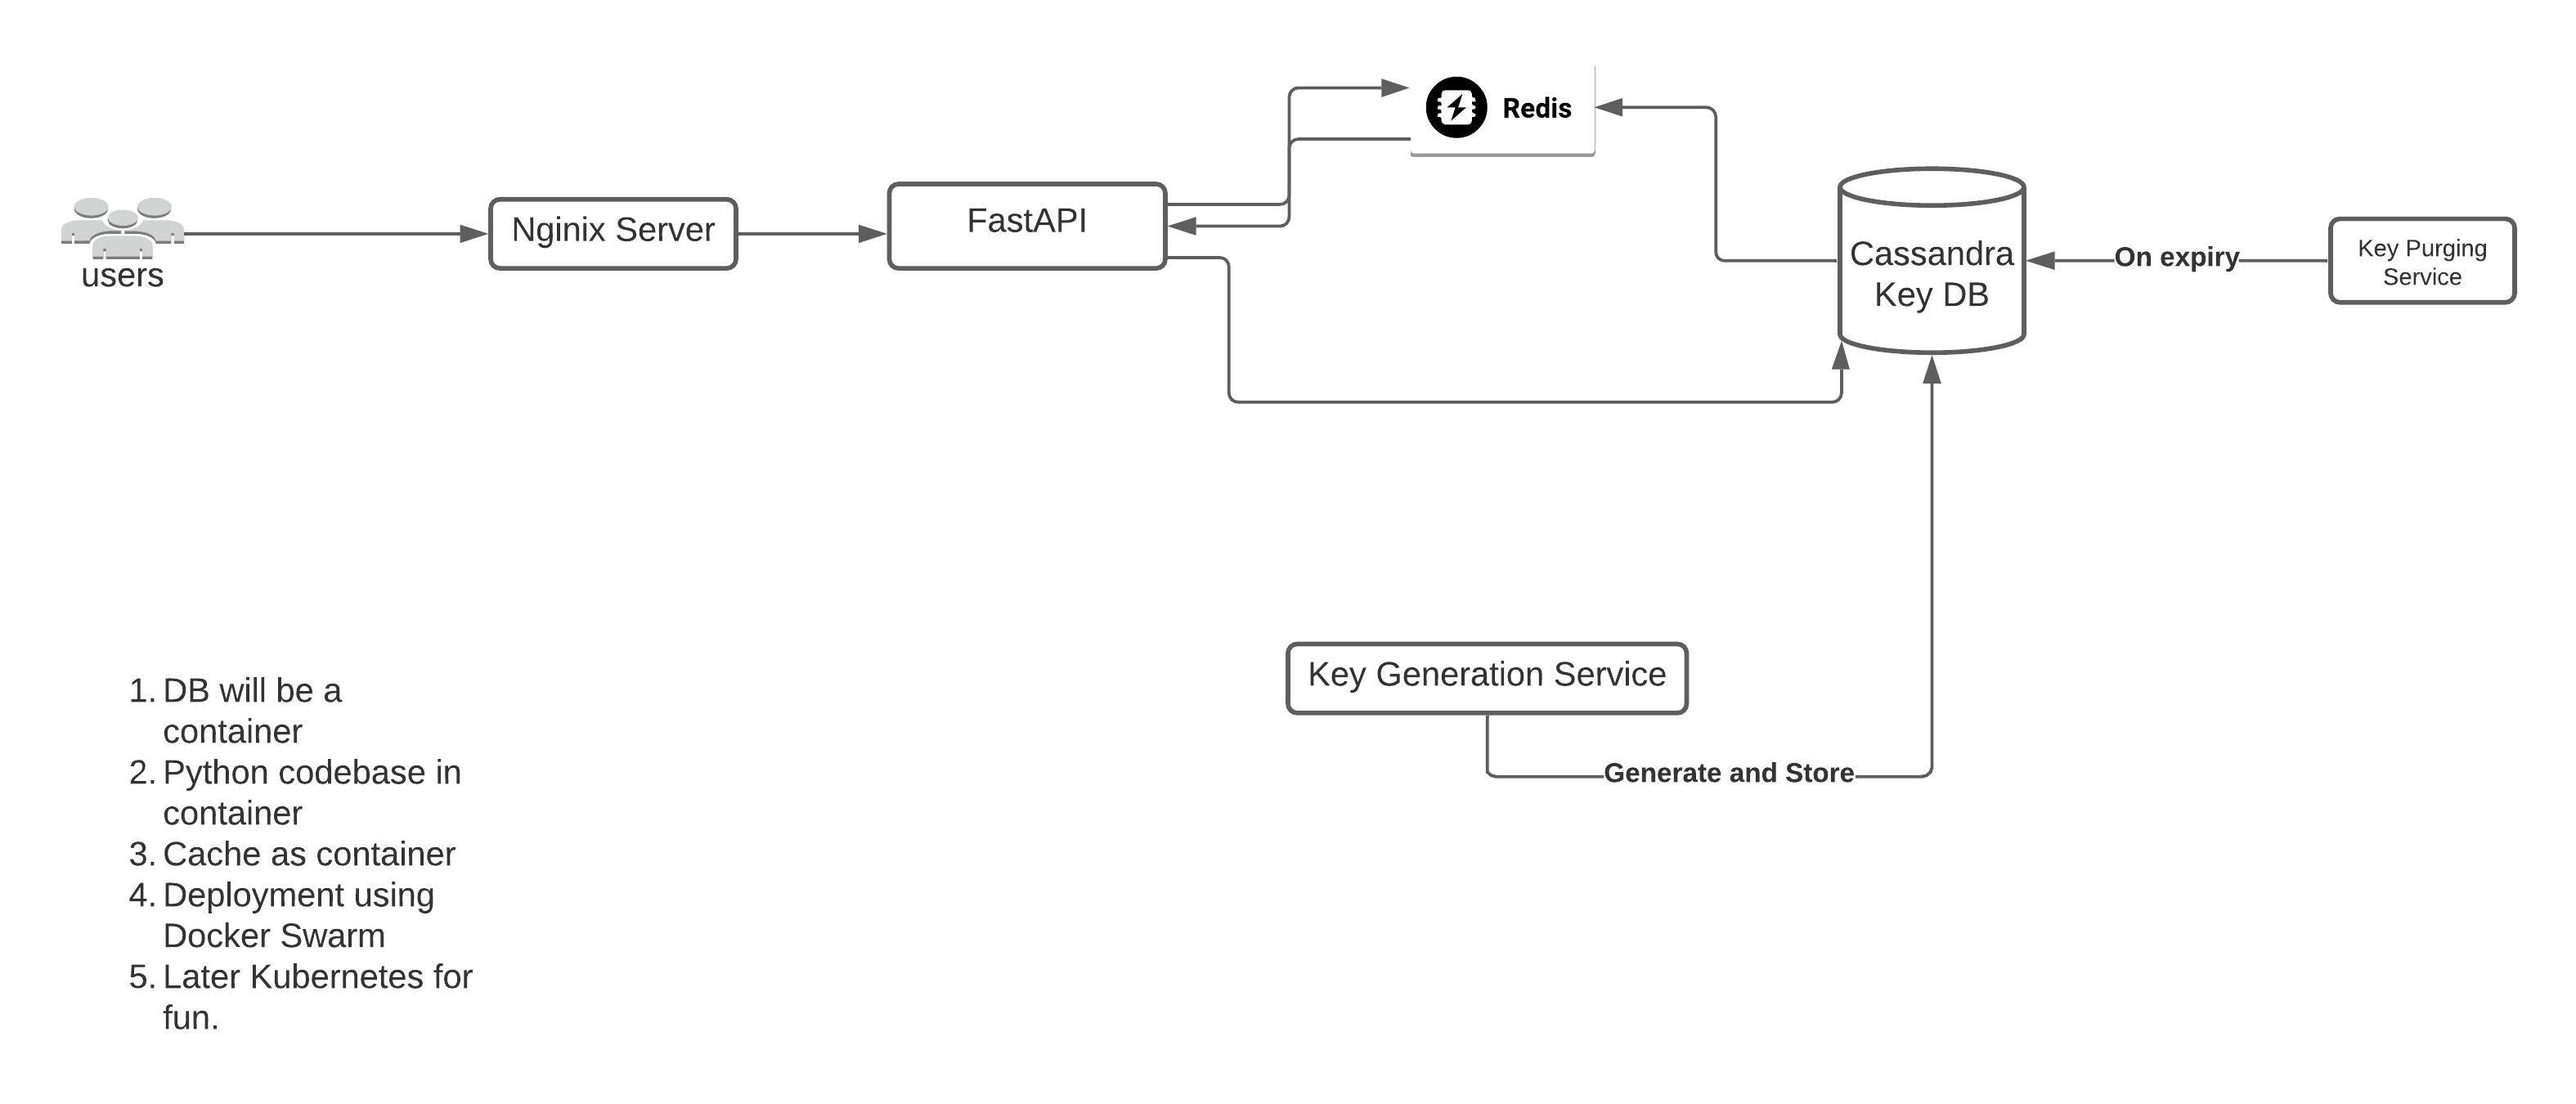
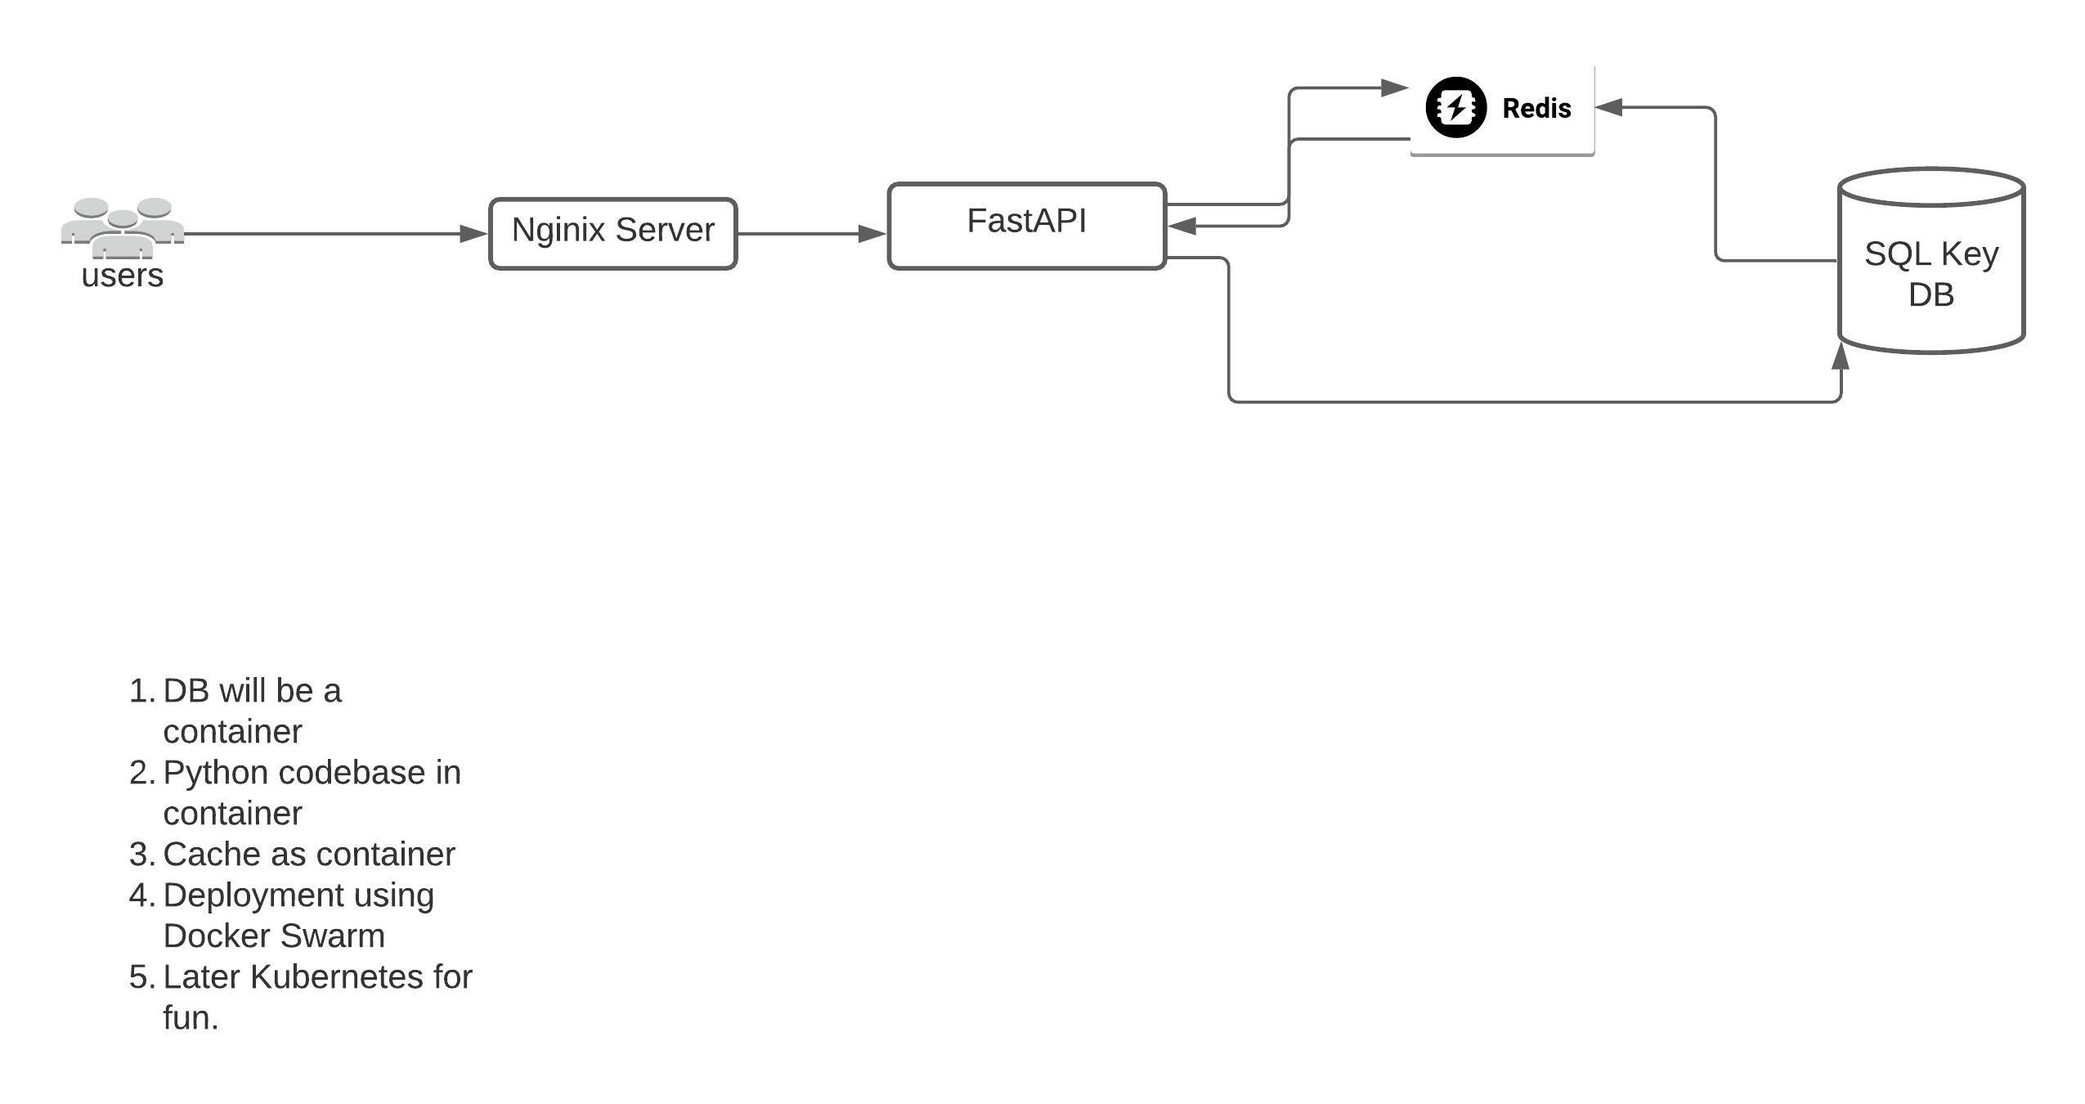
fix(v1 docs): database refined for v1

diff --git a/docs/Database Schema.md b/docs/Database Schema.md
@@ -10,9 +10,6 @@ Database Schema
 
 - Have Users details in one Table
 - Have URL details in one Table
-- Offline Key Generation must have one table
-- One table to store used keys
-- Used Keys will be transferred to UsedKeys Table
 - Each User can have multiple URLs
 
 
@@ -30,8 +27,7 @@ Database Schema
 
 - UserID will have 1:N relationship between Users Table and URLs Table 
 - Users Table can have different user details
-- API dev key can also be added in v2.
-- Offline Key Generation Script will be run every time when the number of new keys goes below a threshold.
+- API dev key will generated using uuid which will help in creating keys.
 - New Keys will be dumped to UsedKey Table
 
 
@@ -45,38 +41,6 @@ Select UserID, Name, Email from Users where UserID = 1234
 
 ```
 Select OriginalURL from URLS where UserID = ”1234” and ExpirationDate < GetDate() and EncodedURL = ‘short_url_clicked”
-```
-
-##### Offline Key Generator Service Query:
-
-```
-Insert Into Table NewKeyGenerated (CreationDate, key) Values (GetDate(), Key)
-```
-
-```
-Select Key from NewKeyGenerated limit 1
-```
-
-##### UsedKeys Dumping:
-
-``` 
-Insert Into Table UsedKeys (Key, isitUsed, ExpirationDate, CreationDate) values (key, True, ExpirationDate, CreationDate)
-```
-##### Usedkeys Flag Set when user deletes key or expires:
-
-```
-Update table UsedKeys set isitUsed=False where key=’user_key’
-```
-
-##### UsedKeys Cleanup:
-
-```
-Select key from UsedKeys where isitUsed=False or ExpirationDate < GetToday()
-```
-
-```
-Insert Into Table NewKeyGenerated (CreationDate, key) Values (GetDate(), Key)
-# key same as above query from UsedKeys
 ```
 
 
